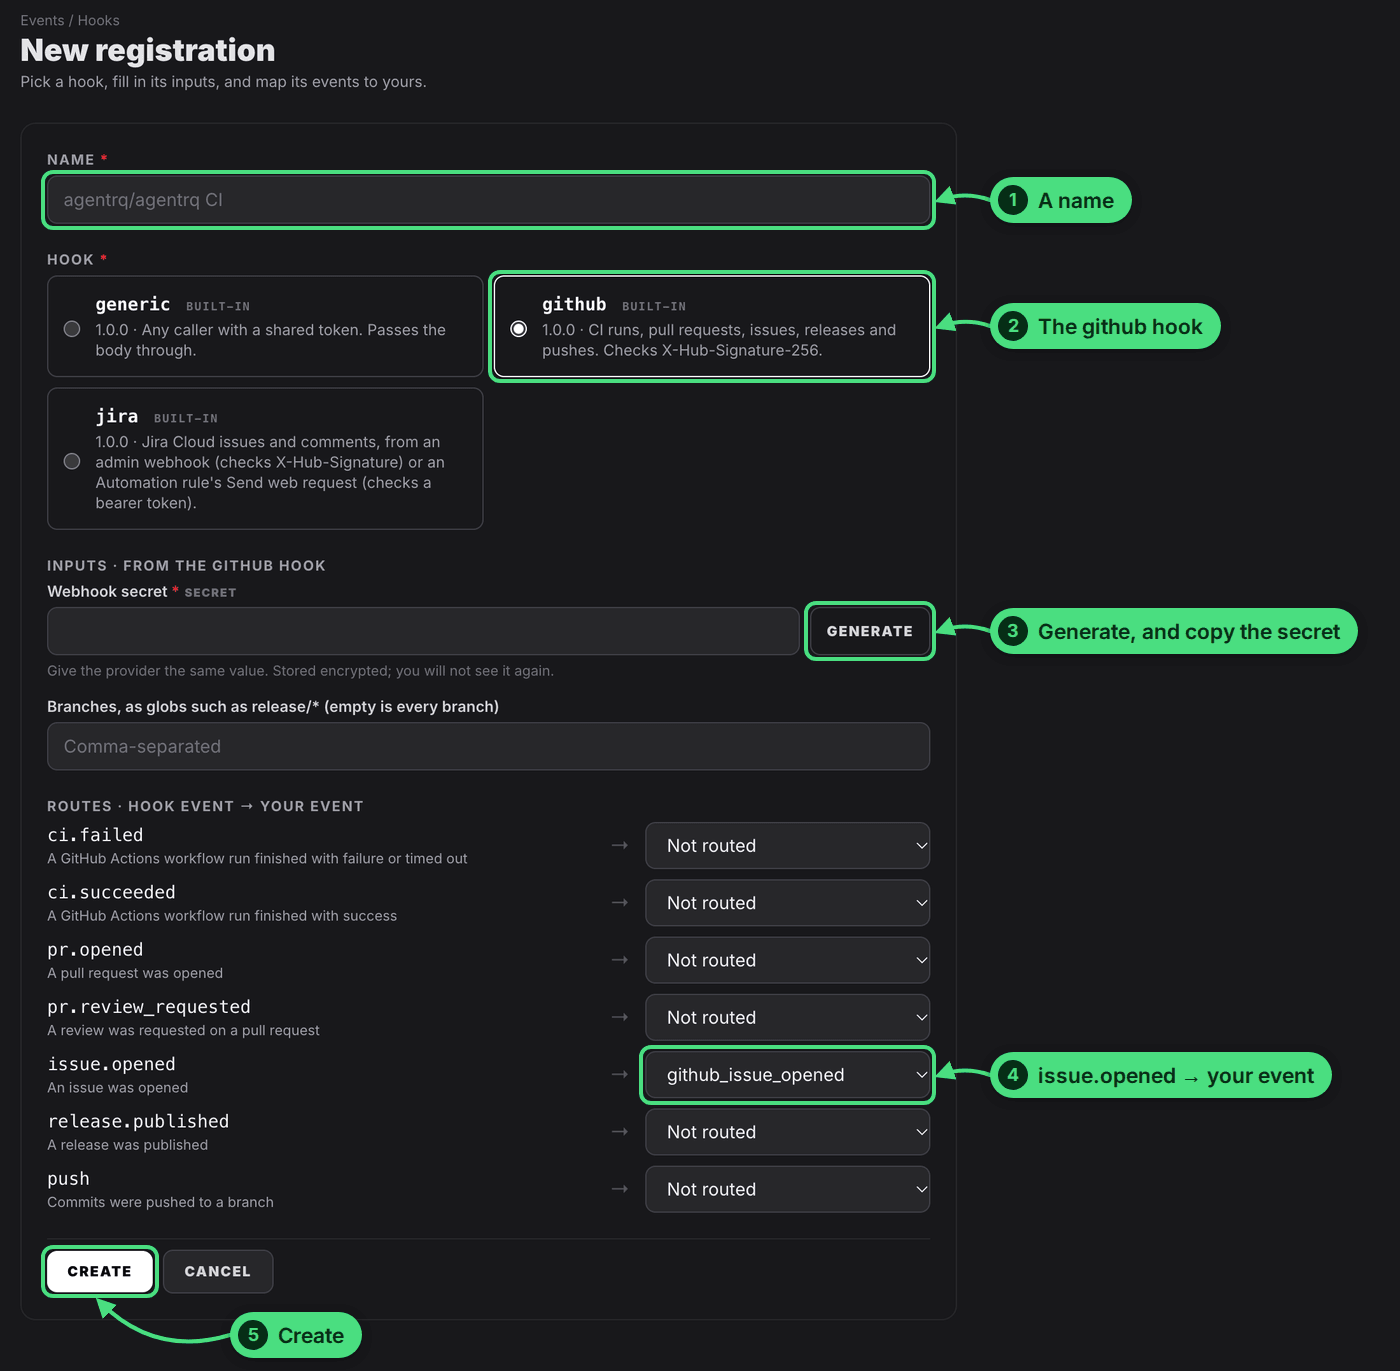
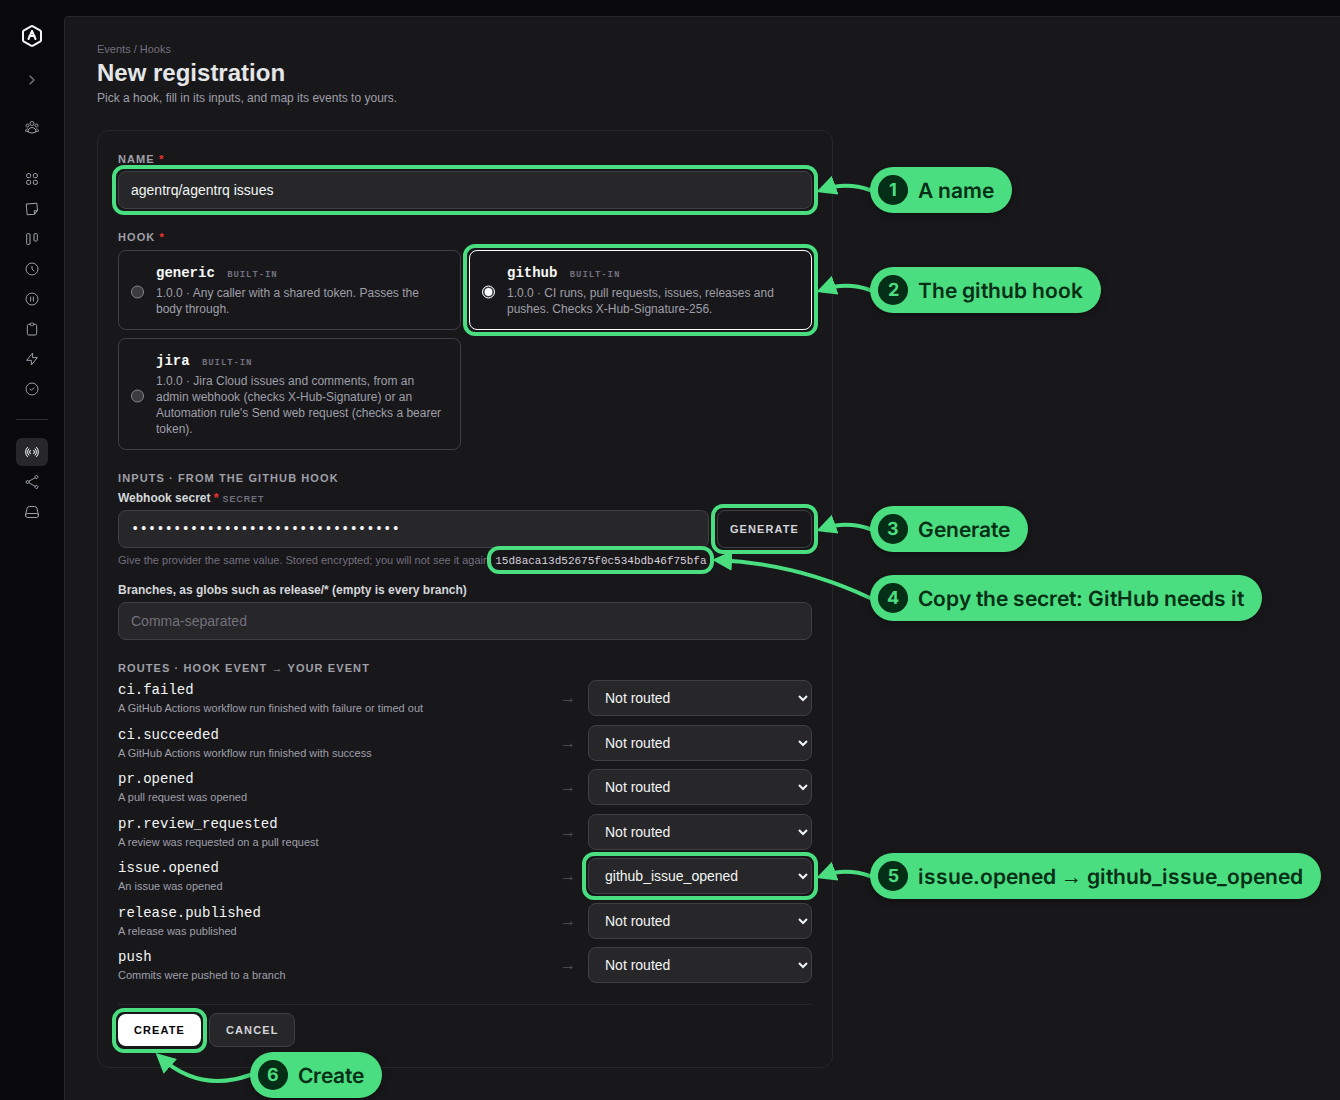
docs(hooks): show the generated webhook secret in the registration screenshot
The registration step is now a capture of a local server with Generate
clicked, so the secret to copy into GitHub is visible and pointed at.

Task: 0mXvz4xPFVv

Changed region(s): [[0.0, 0.0927, 0.9791, 1.0], [0.4284, 0.5873, 1.0, 0.8964], [0.0, 0.0, 0.306, 0.0927]]

diff --git a/docs/HOOKS.md b/docs/HOOKS.md
@@ -52,13 +52,14 @@ This example gives an agent a task whenever an issue is opened in a repository.
 
 1. A name.
 2. The **github** hook.
-3. **Generate** a webhook secret, and copy it now: it is never shown again.
-4. Route `issue.opened` to `github_issue_opened`. Leave the others **Not routed**.
-5. **Create**.
+3. **Generate** a webhook secret.
+4. Copy the secret shown under the field: GitHub needs it, and it is never shown again.
+5. Route `issue.opened` to `github_issue_opened`. Leave the others **Not routed**.
+6. **Create**.
 
 ![The registration's payload URL, with the Copy button](assets/hooks/github-5-payload-url.png)
 
-6. **Copy** the payload URL, which ends in `?agentrq_hook_token=…`. Copy all of it, token included: it is shown only once.
+7. **Copy** the payload URL, which ends in `?agentrq_hook_token=…`. Copy all of it, token included: it is shown only once.
 
 **4. Add the webhook in GitHub.** In the repository, open **Settings → Webhooks → Add webhook**:
 
